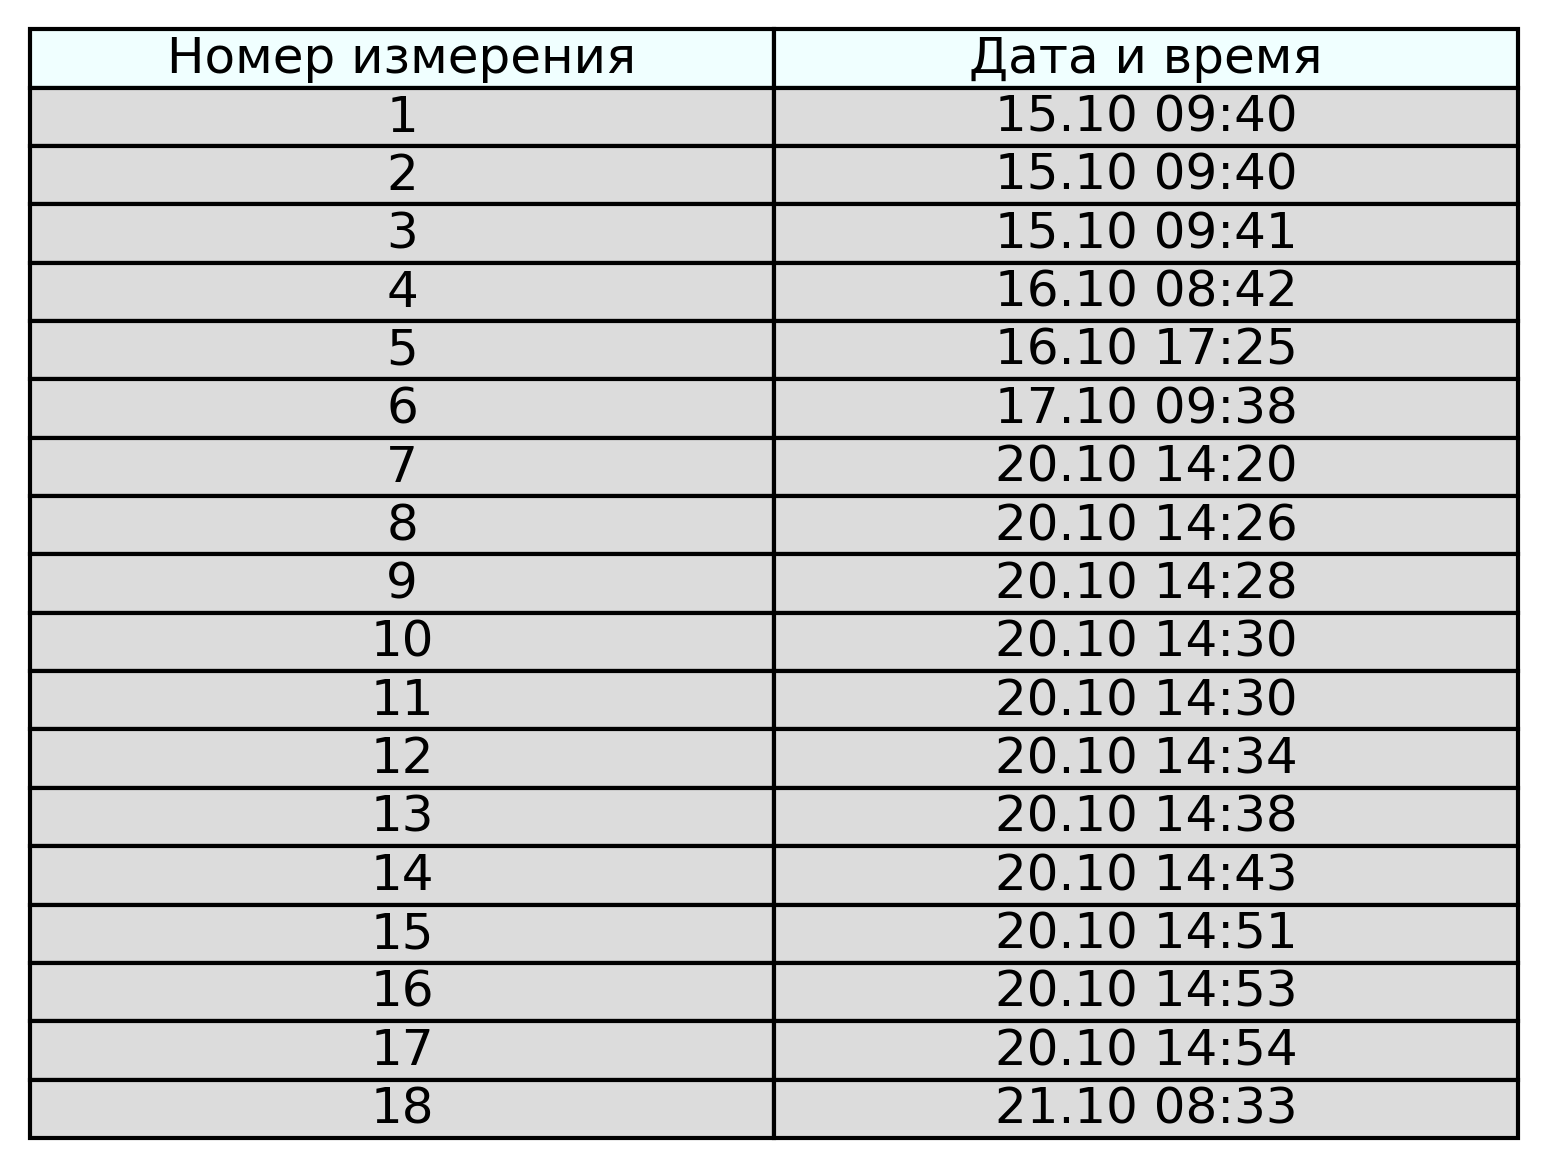
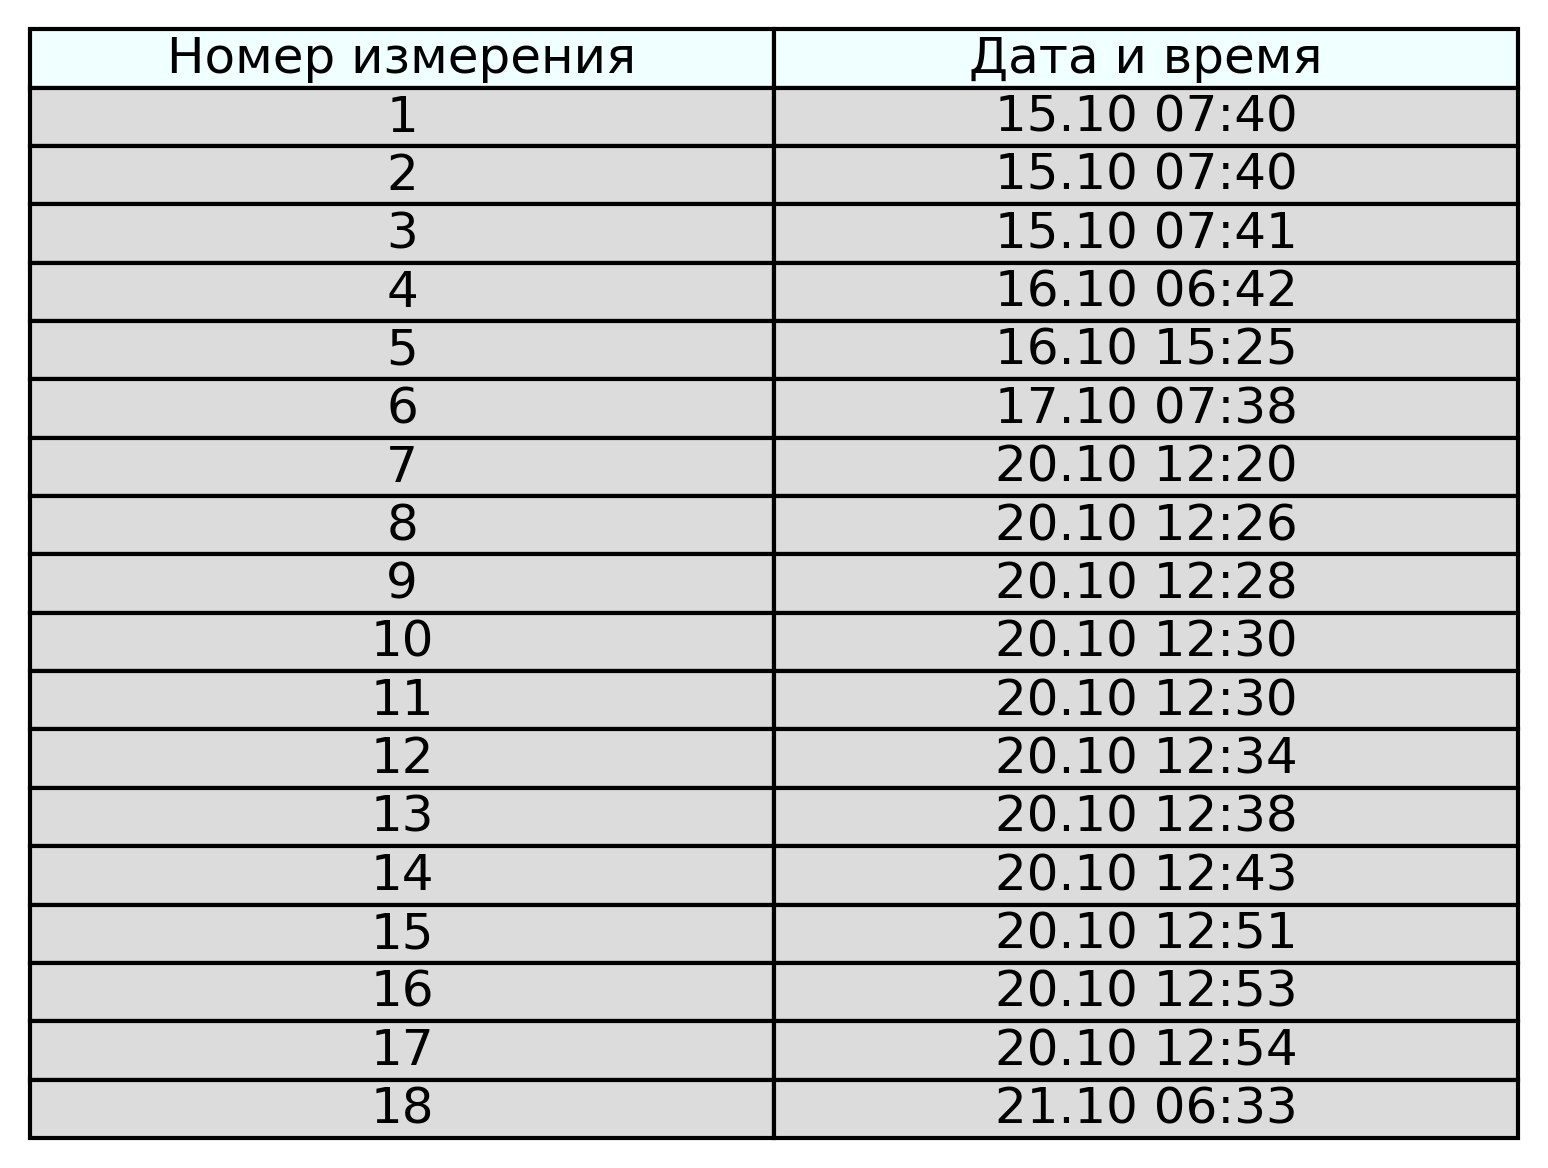
timezone fixes

diff --git a/handlers/user_handlers.py b/handlers/user_handlers.py
@@ -154,7 +154,7 @@ async def process_button_type_click(callback: CallbackQuery, callback_data: Type
     type = callback_data.value
     print(f'Type: {type}')
     await state.update_data(type=type)
-    data = state.get_state()
+    data = state.get_data()
     print(f'Data: {data}')
     await state.set_state(FSMGraphState.period)
     await callback.message.answer(text='Выберите период:',

diff --git a/utils/tools.py b/utils/tools.py
@@ -153,7 +153,7 @@ def save_dictionary_as_png(data_dict):
 
 
 def create_graph(blood_data, days):
-    utc = '+10'
+    utc = '-10'
     timezone = pytz.timezone(f'Etc/GMT{utc}')
     table_filename = ''
     hi_blood = [blood.hi for blood in blood_data]
